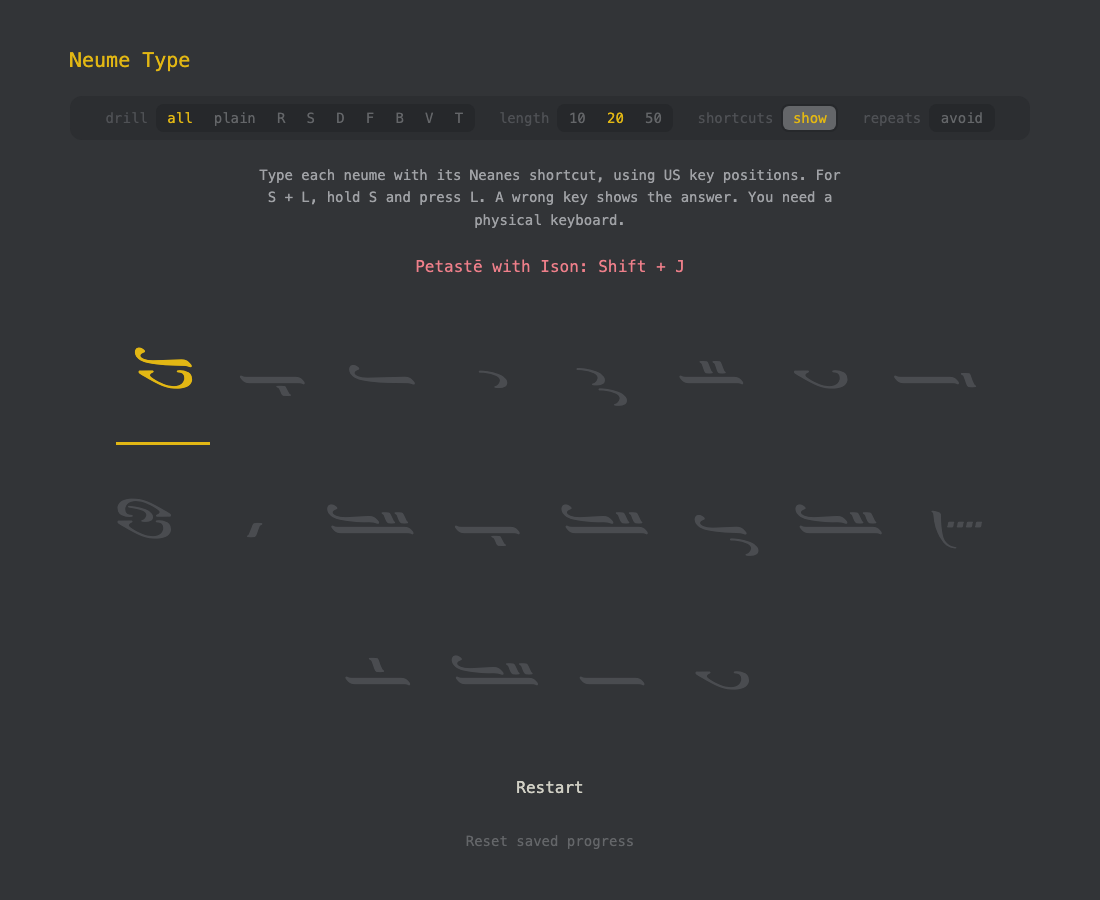
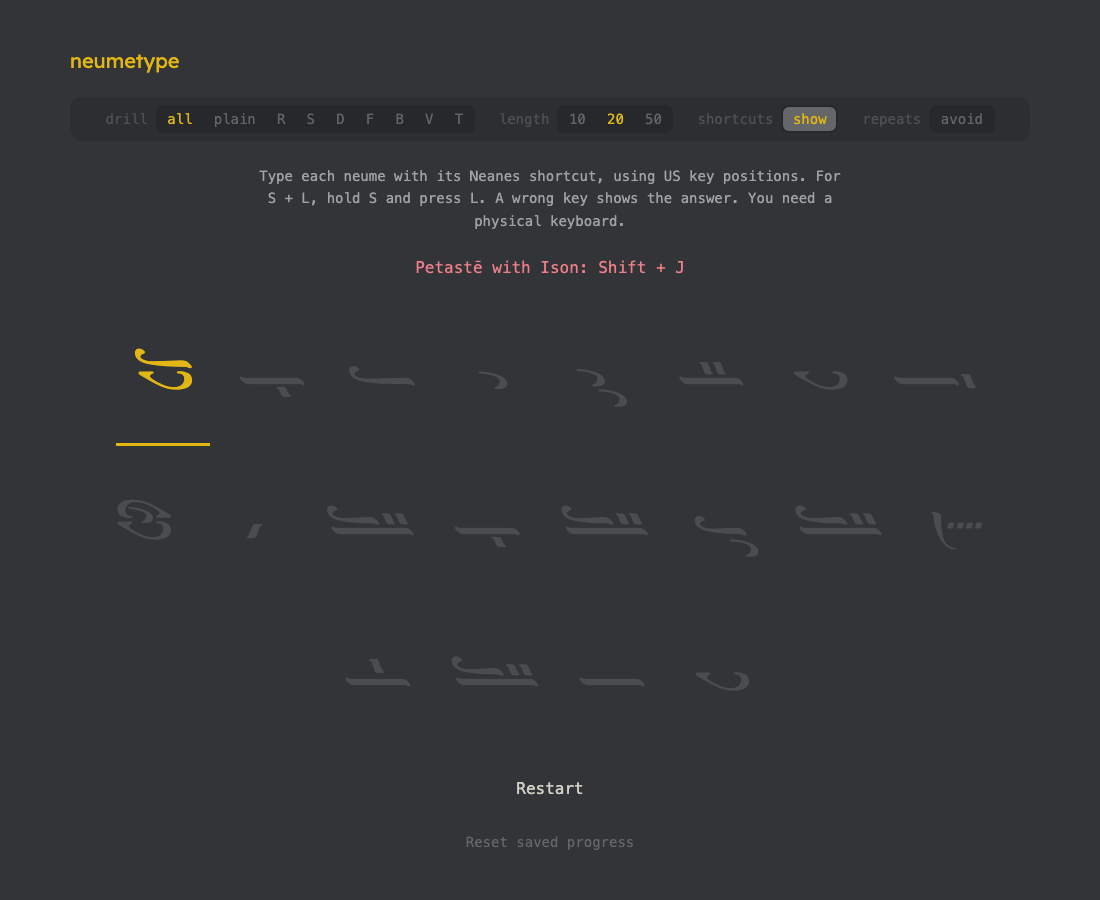
feat(ui): retitle to neumetype and restart on title click
Lower-case title in Lexend Deca, also used for the browser tab. The heading is
a button sharing the Restart handler, blurred after a click.

diff --git a/e2e/title.spec.ts b/e2e/title.spec.ts
@@ -1,0 +1,48 @@
+import { expect, test } from '@playwright/test';
+import { advanceTo, counts, currentIndex, playRun } from './helpers';
+
+test('the title and the browser tab read "neumetype" in lower case', async ({ page }) => {
+  await page.goto('/?seed=1');
+  await expect(page.getByRole('heading', { level: 1 })).toHaveText('neumetype');
+  await expect(page).toHaveTitle('neumetype');
+});
+
+test('the title renders from the bundled Lexend Deca font, not a fallback or installed copy', async ({ page }) => {
+  await page.goto('/?seed=1');
+  await page.evaluate(() => document.fonts.ready);
+  const cdp = await page.context().newCDPSession(page);
+  await cdp.send('DOM.enable');
+  await cdp.send('CSS.enable');
+  const { root } = await cdp.send('DOM.getDocument');
+  const { nodeId } = await cdp.send('DOM.querySelector', { nodeId: root.nodeId, selector: '.title' });
+  const { fonts } = await cdp.send('CSS.getPlatformFontsForNode', { nodeId });
+  expect(fonts).toHaveLength(1);
+  expect(fonts[0].familyName).toContain('Lexend Deca');
+  expect(fonts[0].isCustomFont).toBe(true);
+});
+
+test('clicking the title restarts a running test', async ({ page }) => {
+  await page.goto('/?seed=1&debug');
+  await advanceTo(page, 2);
+  const row = page.getByTestId('row');
+  const before = await row.textContent();
+  await page.getByRole('button', { name: 'neumetype' }).click();
+  expect(await currentIndex(page)).toBe(0);
+  expect(await counts(page)).toEqual({ attempts: 0, errors: 0 });
+  await expect(row).not.toHaveText(before!); // a new draw, from the same seeded stream
+});
+
+test('clicking the title on the results screen starts a new test', async ({ page }) => {
+  await page.goto('/?seed=1');
+  await playRun(page);
+  await page.getByRole('button', { name: 'neumetype' }).click();
+  await expect(page.getByTestId('row')).toBeVisible();
+  await expect(page.getByTestId('done')).toHaveCount(0);
+});
+
+test('the title gives up focus after a click, so Space cannot restart again', async ({ page }) => {
+  await page.goto('/?seed=1');
+  const title = page.getByRole('button', { name: 'neumetype' });
+  await title.click();
+  await expect(title).not.toBeFocused();
+});

diff --git a/src/ui/App.tsx b/src/ui/App.tsx
@@ -33,10 +33,18 @@ function Game({ store, progress, debug = false }: AppProps) {
   const key = bestKey(state.drillId, state.targets.length);
   const best = saved.progress.bests[key];
   const weakNeumes = weakest(saved.progress.neumes, 5, 3, knownIds);
+  const restart = (e: { currentTarget: HTMLElement }) => {
+    store.restart();
+    blurAfter(e);
+  };
 
   return (
     <main>
-      <h1>Neume Type</h1>
+      <h1>
+        <button type="button" className="title" onClick={restart}>
+          neumetype
+        </button>
+      </h1>
       <nav className="settings" aria-label="Practice options">
         <SettingGroup label="drill">
           {allDrills.map((d) => (
@@ -147,10 +155,7 @@ function Game({ store, progress, debug = false }: AppProps) {
         type="button"
         className="restart"
         data-testid="restart"
-        onClick={(e) => {
-          store.restart();
-          e.currentTarget.blur(); // so Space cannot re-trigger the button
-        }}
+        onClick={restart}
       >
         Restart
       </button>

diff --git a/src/ui/fonts.css b/src/ui/fonts.css
@@ -3,3 +3,11 @@
   src: url('/fonts/Neanes.otf') format('opentype');
   font-display: block;
 }
+
+/* The title only. One variable file holds every weight. */
+@font-face {
+  font-family: 'Lexend Deca';
+  src: url('/fonts/LexendDeca.ttf') format('truetype');
+  font-weight: 100 900;
+  font-display: block;
+}

diff --git a/src/ui/look.css b/src/ui/look.css
@@ -38,6 +38,16 @@ h1 {
   font-weight: 400;
   color: var(--accent);
 }
+.title {
+  font-family: 'Lexend Deca', sans-serif;
+  font-size: inherit;
+  font-weight: inherit;
+  color: inherit;
+  background: transparent;
+  border: 0;
+  padding: 0;
+  cursor: pointer;
+}
 
 h2 {
   font-size: 1rem;

diff --git a/index.html b/index.html
@@ -3,7 +3,7 @@
   <head>
     <meta charset="UTF-8" />
     <meta name="viewport" content="width=device-width, initial-scale=1.0" />
-    <title>Neume Type</title>
+    <title>neumetype</title>
   </head>
   <body>
     <div id="root"></div>

diff --git a/SPEC.md b/SPEC.md
@@ -26,7 +26,7 @@ A Monkeytype-style drill for entering Byzantine chant neumes with Neanes keyboar
    - Neumes per minute = test length / (time in minutes), to 1 decimal.
    - Accuracy = correct attempts / total attempts, as a percentage to 1 decimal.
    - Example: 40,000 ms with 5 errors gives 40.00 s, 30.0 per minute, 80.0% (20/25).
-6. The restart button is visible during the test and on results. It draws a new test and resets clock and counts. Attempts on the results screen are ignored.
+6. The restart button is visible during the test and on results. It draws a new test and resets clock and counts. Clicking the title does the same. Attempts on the results screen are ignored.
 
 ## 3a. Weighting
 
@@ -153,9 +153,11 @@ With a solo entry for `B` (test data only, no keymap entry has a modifier trigge
 
[1 lines of base64/hex data omitted]
 
[1 lines of base64/hex data omitted]
+
 ## 6. Look
 
-Copy the layout and feel of default Monkeytype by eye, with no Monkeytype code or assets. Centred column, minimal chrome, system monospace stack for UI text, neumes in a wrapping row. Palette (approximate, recalled, not sourced): background `#323437`, accent/current `#e2b714`, untyped text (labels, stats) `#646669`, error `#ca4754`. Neume states (owner's choice, T13): done `#f2f1ea` (very bright), untyped `#4a4c50` (deliberately low contrast, close to the background), current `#e2b714`. Buttons keep `#d1d0c5`.
+Copy the layout and feel of default Monkeytype by eye, with no Monkeytype code or assets. Centred column, minimal chrome, system monospace stack for UI text, neumes in a wrapping row. The title reads "neumetype" (lower case, also the browser tab) in Lexend Deca, the typeface of Monkeytype's logo (owner decision 2026-11-28). Palette (approximate, recalled, not sourced): background `#323437`, accent/current `#e2b714`, untyped text (labels, stats) `#646669`, error `#ca4754`. Neume states (owner's choice, T13): done `#f2f1ea` (very bright), untyped `#4a4c50` (deliberately low contrast, close to the background), current `#e2b714`. Buttons keep `#d1d0c5`.
 
 ## 7. Acceptance criteria
 
@@ -168,7 +170,7 @@ Copy the layout and feel of default Monkeytype by eye, with no Monkeytype code o
 7. In a real browser, all code points of all 90 entries render from the Neanes font, not a fallback.
 8. Restart gives a new test with zeroed clock and counts.
 9. Type-check, ESLint, Vitest and Playwright all pass locally and in GitHub Actions.
-10. The font and OFL files match the SHA-256 values in section 5.
+10. The font and OFL files, for both fonts, match the SHA-256 values in section 5.
 11. Human check: glyphs match the guide's Symbol column, and a full test feels playable.
 12. The pitch and class of all 61 rows in `docs/neume-weights.md` equal the keymap's `pitch` and `frequency`, checked by a unit test that fails on any difference.
 13. Chances sum to 1, none is below 0.25%, Ison is highest, and hand-calculated values hold, including a case where the floor needs more than one pass.
@@ -179,6 +181,7 @@ Copy the layout and feel of default Monkeytype by eye, with no Monkeytype code o
 18. Appendix B: every row matches the keymap; no entry is `unverified` (row 82 was verified by the owner on 2026-11-19); the default `all` drill is exactly the 61 quantity entries (so its chances and seeded draws are unchanged); the V drill has the 11 quality entries and the T drill all 18 fthoras, including row 82, which can be drawn; in a real browser each V and T target is typed with its own shortcut and all 90 code point sequences render from the Neanes font. Human check, done: the owner reported on 2026-11-26 that the glyphs have been checked.
 19. Avoid repeats: off gives exactly the previous draw for a fixed seed; on never puts the same id twice in a row over many seeds and all drills, draws each later position at c_j / (1 - c_prev), uses one `random()` per target, and persists across reload together with the drill and length.
 20. First visit and footer (section 3d): in a real browser the instruction shows above the neumes on a fresh browser and through an unfinished run, is gone after a finished run, restart and reload, and returns after a reset. The footer's three links have the stated targets and open in new tabs, the licence link serves the OFL text, both texts meet 4.5:1 contrast, and a 390 px screen has no sideways scroll. The licence link follows a non-root Vite base (unit test). On a 1280x600 screen the hint is fully visible after a first visitor's wrong key; with the longest hint at 1280, 600, 390 and 320 px it sits above the neumes without moving them; and late in a scrolled 50-neume test it is on screen and clear of the current neume.
+21. Title (sections 3 and 6): in a real browser the heading and tab read "neumetype", the title renders from the bundled Lexend Deca font, and clicking it during a test or on the results gives a new test with zeroed counts, without keeping focus.
 
 ## Appendix A: Characters of Quantity
 

diff --git a/PROGRESS.md b/PROGRESS.md
@@ -36,6 +36,7 @@
 - Weakest neumes quieter and results-only (2026-11-21, owner decision after a design critique): the panel moved from under the test into the Results view (after the run's hardest list) and shows only when not empty. It is no longer a yellow-outlined card: no border, background or radius, and no row hover (rows are not clickable). Header `errors` became `miss rate`, a muted line states `all time · 3+ attempts`, glyphs are `aria-hidden`, and the section is `aria-labelledby` its heading. Contrast: new tokens `--text-soft` (#a0a2a6) and `--error-text` (#ee7f8a), both about 4.8:1 on `--bg`; the old text was 1.7 to 2.9:1. On a phone the shortcut and header stay on one line and the name wraps. SPEC section 3c and criterion 17 updated. Tests changed by this owner decision, not weakened: the yellow-outline and card-width tests are replaced by a quiet-table test, and the tests that read the panel before a run now finish a run first; new tests cover results-only, 4.5:1 contrast, aria and the phone layout (written first, 5 failed). Not changed: `Results` and `Hardest this run` text is still `--text-muted` (about 2.7:1), the same low contrast as before, and the Reset button. Screenshots regenerated. No dependencies added.
 - First visit and footer (2026-11-26, owner request): a short instruction shows until a run has been finished in this browser (`hasPlayed` in `src/core/progress.ts`; no schema change), and a footer links to Neanes, the font licence and GitHub issues (SPEC section 3d, criterion 20). Tests first (3 unit and 8 of 9 e2e red; the "gone after a finished run" case passed before the code existed and was mutation-checked instead: always showing the instruction fails it). A further red-then-green e2e keeps `S + L` from wrapping apart. `playRun` moved from `e2e/progress.spec.ts` to `e2e/helpers.ts`; the other specs' variants differ and are unchanged. Screenshots regenerated. No dependencies added.
 - Review fixes on PR #36 (2026-11-26, five findings): the instruction pushed the hint below the fold (measured at 1280x720 and 1280x650), so the hint moved above the neumes into reserved, sticky space (owner-approved layout change); the licence link now follows Vite `base` (`Footer` moved to `src/ui/Footer.tsx` to unit-test it); the reset-during-a-run layout shift is kept and documented in SPEC 3d; `contrastRatios` and one `playRun(page, beforeEach?)` in `e2e/helpers.ts` replace the copies. The shared `playRun` now asserts the results show for every caller (some copies did not), and no assertion was removed. Tests first for the two behaviour fixes (7 red). A second review of those fixes raised five minor points, all fixed: the hint's shortcut no longer wraps apart and the hint uses `--error-text` instead of `--error` for 4.5:1 (both red first; the glyph's error colour is unchanged), `contrastRatios` waits for its elements, the screenshot script uses `playRun`, and SPEC 3d states the 320px limit. No dependencies added.
+- Title (2026-11-28, owner request): the heading and browser tab read "neumetype", and the heading is a button that restarts the test (same handler as Restart, blurred after click). Set in Lexend Deca, the typeface of Monkeytype's logo (named from memory; a web search did not confirm it); no Monkeytype code or assets used. Owner approved bundling it as a second third-party font: `public/fonts/LexendDeca.ttf` and `OFL-LexendDeca.txt`, unmodified from google/fonts at e2332cf8, SHA-256 pinned by unit test; `CLAUDE.md` guardrail and layout, SPEC sections 3, 5, 6 and criteria 10 and 21 updated. Title size and accent colour unchanged. The footer licence link still points at the Neanes licence only. Tests first (2 unit and 5 e2e red: `e2e/title.spec.ts`). Screenshots regenerated. No npm dependencies added.
 
 ## Next
 - G7 decided 2026-11-18: stay on React.
